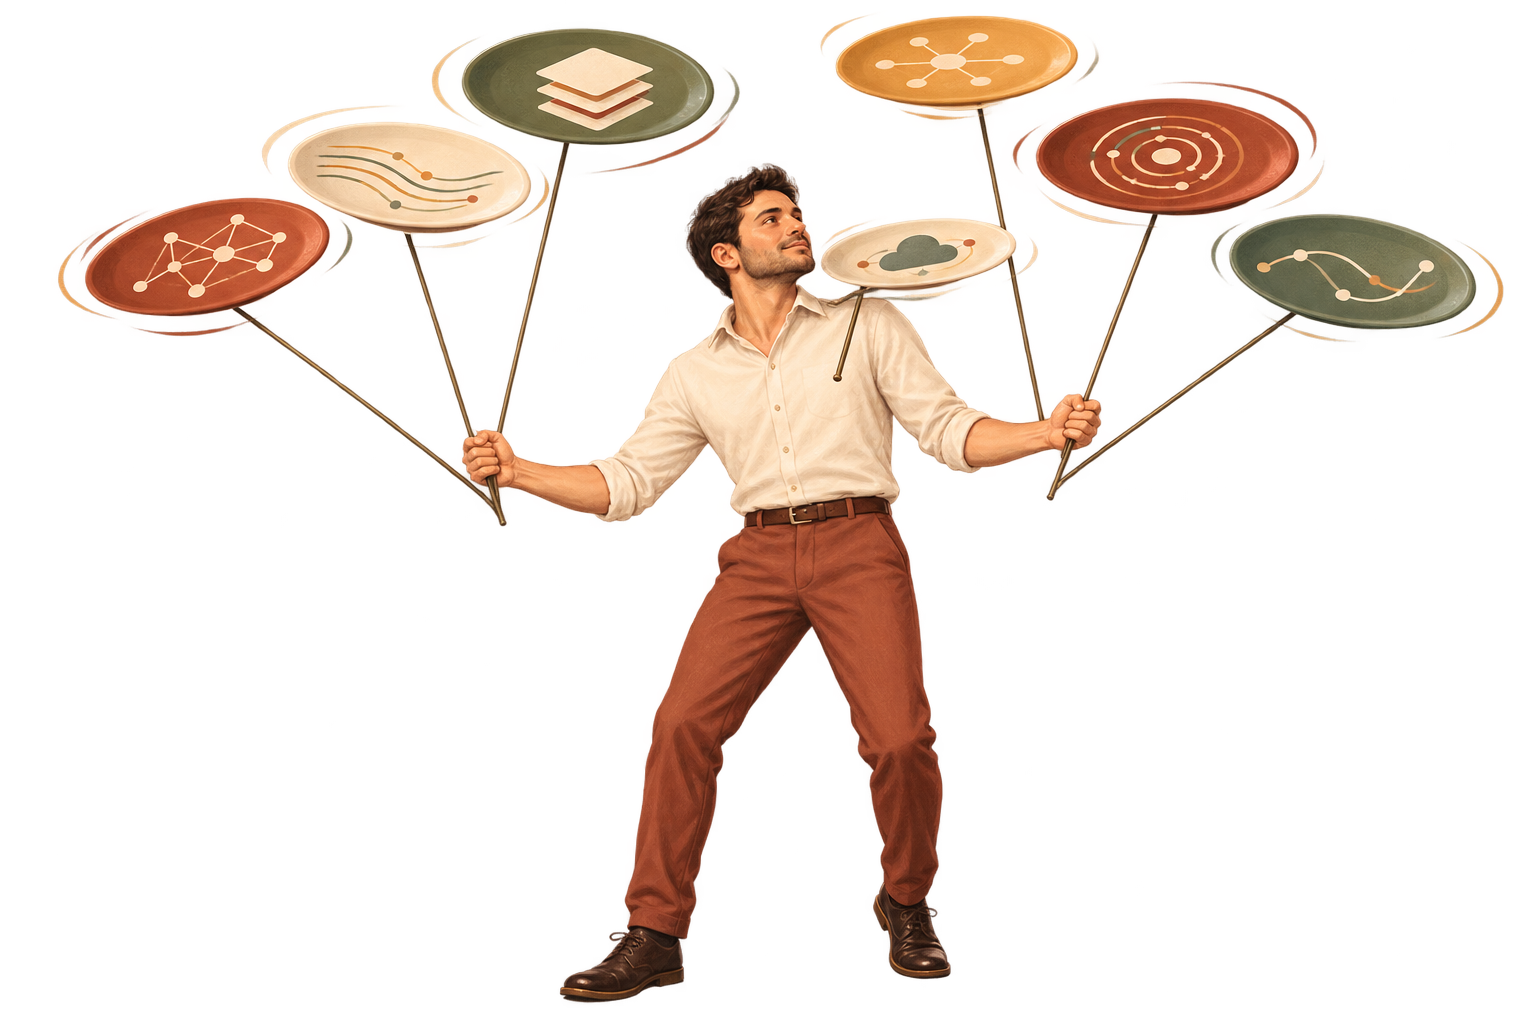
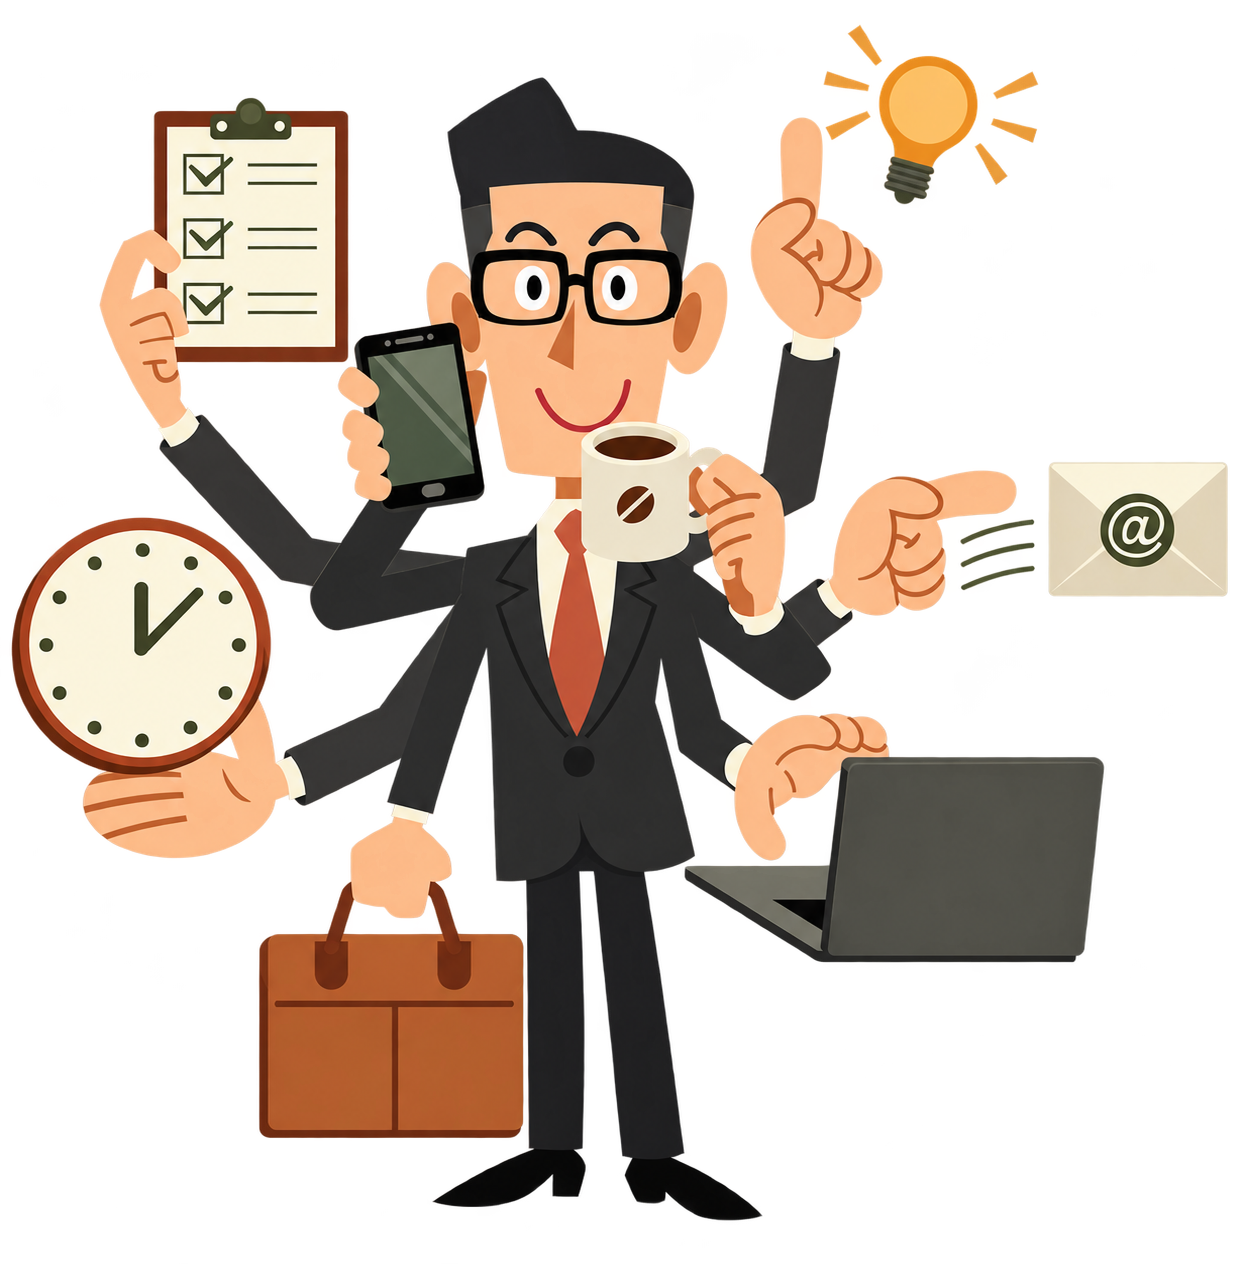
Recolor multitasking hero illustration

diff --git a/index.html b/index.html
@@ -11,7 +11,7 @@
 <body>
 <header class="topbar"><a class="wordmark" href="#home">MANORATH<br>KHANNA</a><nav aria-label="Main navigation"><a href="#work">Selected work</a><a href="#journey">My journey</a><a href="#career">Career</a><a href="#press">In the press</a></nav><button class="theme" id="theme-toggle" aria-label="Switch color theme">☼</button><button class="menu" id="menu-toggle" aria-label="Open navigation">☰</button></header>
 <main>
-<section class="hero" id="home"><div class="eyebrow">PRODUCT, PEOPLE <span>·</span> A LITTLE CURIOSITY</div><div class="hero-grid"><div><h1>I turn curious<br>questions into<br><em>useful things.</em></h1><p class="intro">I’m a cross-functional problem solver: calm when things get messy, and a collaborator from first question to useful fix.</p><div class="team-callout"><span>THE FIRE-EXTINGUISHER INSTINCT</span><p>I bring developers, designers, data scientists, applied AI, support, monitoring, leadership, and business teams together around what needs solving.</p></div><div class="actions"><a class="button dark" href="#work">Explore my work ↘</a><a class="button outline" href="#contact">Say hello ↗</a></div><div class="social"><a href="https://www.linkedin.com/in/manorath-khanna" target="_blank" rel="noreferrer">LinkedIn ↗</a><a href="mailto:mkhanna1509@gmail.com">Email ↗</a></div></div><div class="juggling-visual" role="group" aria-label="Illustration of a person juggling the many moving parts that keep systems working"><div class="visual-kicker"><span>KEEPING SYSTEMS IN MOTION</span><span>01 / MANY MOVING PARTS</span></div><div class="illustration-stage"><img src="juggling-systems.png?v=plates-1" alt="A focused man balancing several spinning plates marked with subtle system motifs"></div><div class="visual-caption"><span class="caption-orbit">↗</span><div><span>THE WORK BETWEEN THE TEAMS</span><strong>Many moving parts. One steady collaborator.</strong></div></div></div></div><div class="scroll-note">SCROLL TO EXPLORE ↓</div></section>
+<section class="hero" id="home"><div class="eyebrow">PRODUCT, PEOPLE <span>·</span> A LITTLE CURIOSITY</div><div class="hero-grid"><div><h1>I turn curious<br>questions into<br><em>useful things.</em></h1><p class="intro">I’m a cross-functional problem solver: calm when things get messy, and a collaborator from first question to useful fix.</p><div class="team-callout"><span>THE FIRE-EXTINGUISHER INSTINCT</span><p>I bring developers, designers, data scientists, applied AI, support, monitoring, leadership, and business teams together around what needs solving.</p></div><div class="actions"><a class="button dark" href="#work">Explore my work ↘</a><a class="button outline" href="#contact">Say hello ↗</a></div><div class="social"><a href="https://www.linkedin.com/in/manorath-khanna" target="_blank" rel="noreferrer">LinkedIn ↗</a><a href="mailto:mkhanna1509@gmail.com">Email ↗</a></div></div><div class="juggling-visual" role="group" aria-label="Illustration of a multitasking professional coordinating several responsibilities"><div class="visual-kicker"><span>KEEPING SYSTEMS IN MOTION</span><span>01 / MANY MOVING PARTS</span></div><div class="illustration-stage"><img src="juggling-systems.png?v=multitask-1" alt="A focused man with multiple arms coordinating a phone, checklist, email, laptop, clock, coffee, and briefcase"></div><div class="visual-caption"><span class="caption-orbit">↗</span><div><span>THE WORK BETWEEN THE TEAMS</span><strong>Many moving parts. One steady collaborator.</strong></div></div></div></div><div class="scroll-note">SCROLL TO EXPLORE ↓</div></section>
 <section class="section work" id="work"><div class="section-kicker">01 / WHAT I MAKE</div><div class="section-head"><h2>Selected work</h2><p>A few problems I’ve enjoyed untangling. Pick a lens to explore, then open a card for the details.</p></div><div class="filters" role="group" aria-label="Filter selected work"><button class="filter active" data-filter="all">Everything</button><button class="filter" data-filter="ai">AI & product</button><button class="filter" data-filter="impact">Social impact</button><button class="filter" data-filter="venture">Venture</button></div><div class="work-grid">
 <article class="work-card" data-tags="ai"><div class="card-top"><span>AI · Product strategy</span><span>↗</span></div><h3>NPS intelligence,<br>with context</h3><p>Turning thousands of daily customer signals into useful product decisions.</p><details><summary>What I worked on <span>＋</span></summary><p>Connecting customer feedback with product context to help teams spot patterns, prioritize issues, and make better decisions.</p></details></article>
 <article class="work-card" data-tags="ai"><div class="card-top"><span>Banking · Customer experience</span><span>↗</span></div><h3>See the customer<br>journey</h3><p>Connecting app sessions, APIs, and monitoring to make digital banking easier to diagnose.</p><details><summary>What I worked on <span>＋</span></summary><p>Bringing digital journey signals together so teams can understand friction and investigate customer-impacting issues.</p></details></article>
